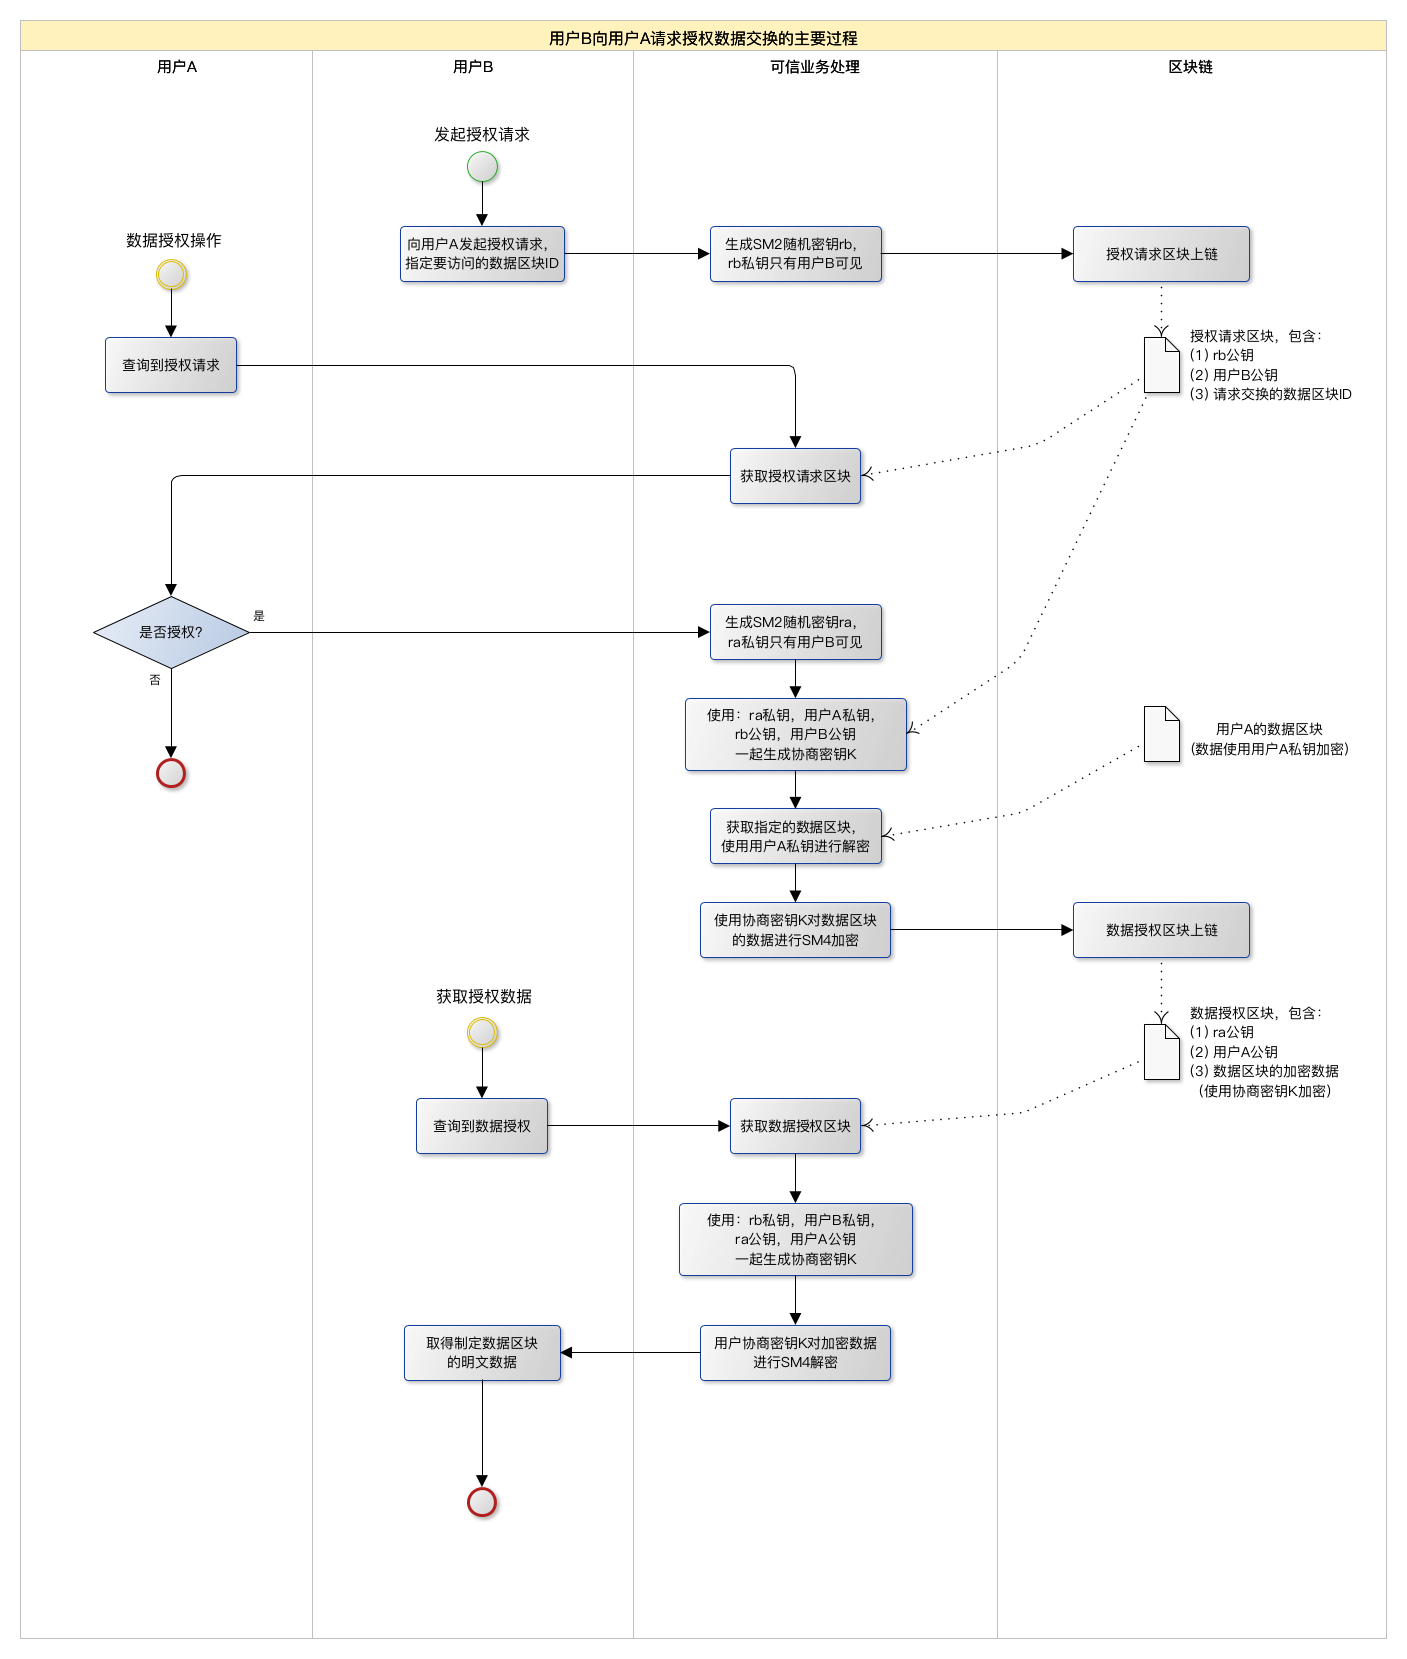
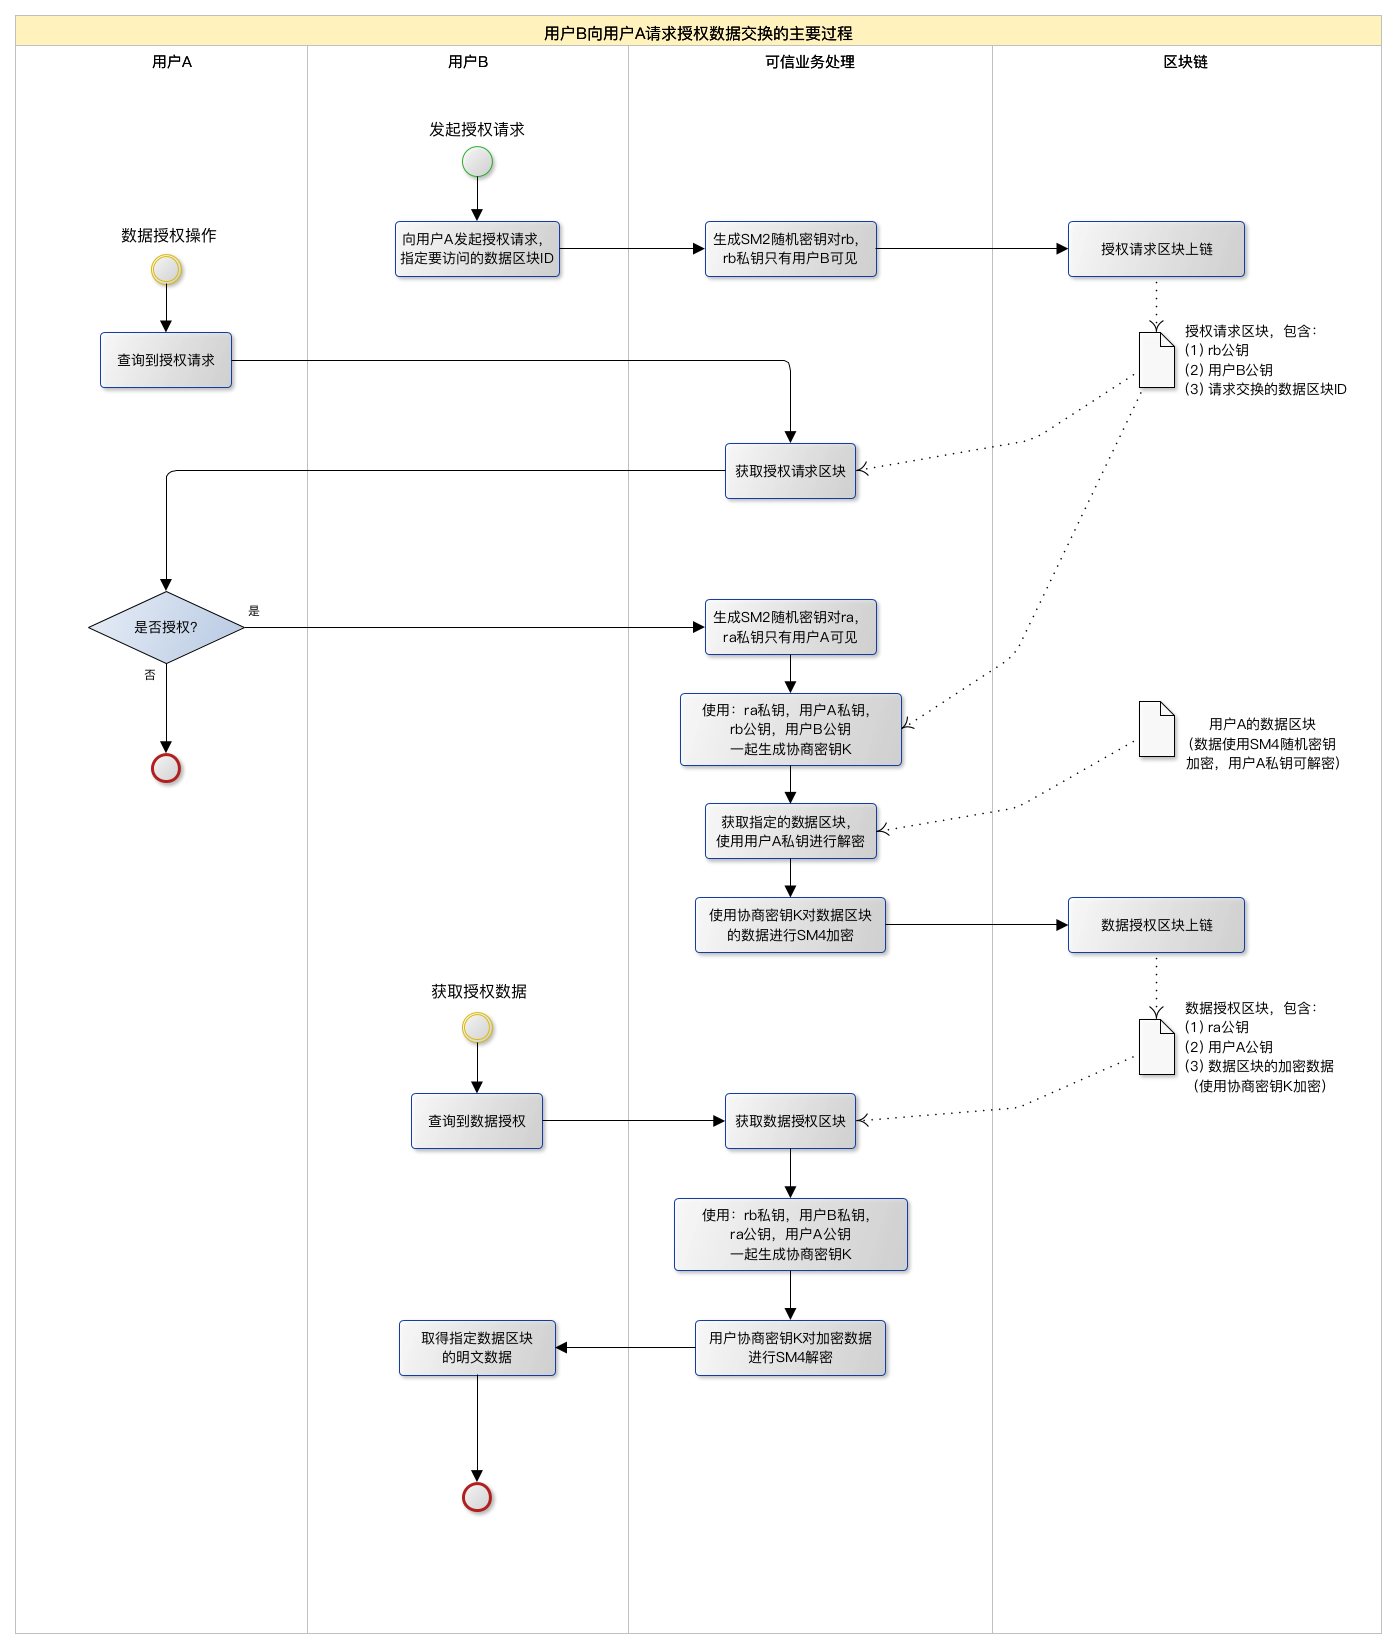
update doc

diff --git a/doc/xchain.md b/doc/xchain.md
@@ -93,14 +93,21 @@ type Auth struct {
 
 #### 3.3 密钥交换和加密算法相关
 
-1. 交易数据payload中```Data```使用SM4加密，密钥为用户私钥的前128bit
+1. 交易数据payload中```Data```格式
+
+```shell
+SM2加密SM4密钥后密文长度（1字节）+ SM2加密SM4密钥的密文 + SM4加密的交易数据
+```
+
+> 交易数据使用SM4加密，SM4密钥为128bit随机私钥（一次一密）。使用用户的SM2公钥对SM4私钥进行加密，只有用户自己的私钥可解密。
+
 2. 授权请求payload中```Data```格式
 
 ```shell
-rb公钥长度(1字节) + rb公钥 + 用户B私钥加密的rb私钥
+rb公钥长度(1字节) + rb公钥 + 用户B使用SM2加密rb私钥的密文
 ```
 
-> 这里将rb私钥也上链，是个trick。因为解密数据时，用户B需要用到rb私钥，这里放在链上，就不需要再单独保存此私钥了。因为此私钥跟授权请求是对应的，放在授权请求的区块里可以直接体现关联关系。使用用户B的私钥加密，则只有用户B可见。
+> 这里将rb私钥也上链，是个trick。因为解密数据时，用户B需要用到rb私钥，这里放在链上，就不需要再单独保存此私钥了。因为此私钥跟授权请求是对应的，放在授权请求的区块里可以直接体现关联关系。使用用户B的公钥进行SM2加密，则只有用户B可以用其私钥进行解密。
 
 3. 响应授权payload中```Data```格式
 
